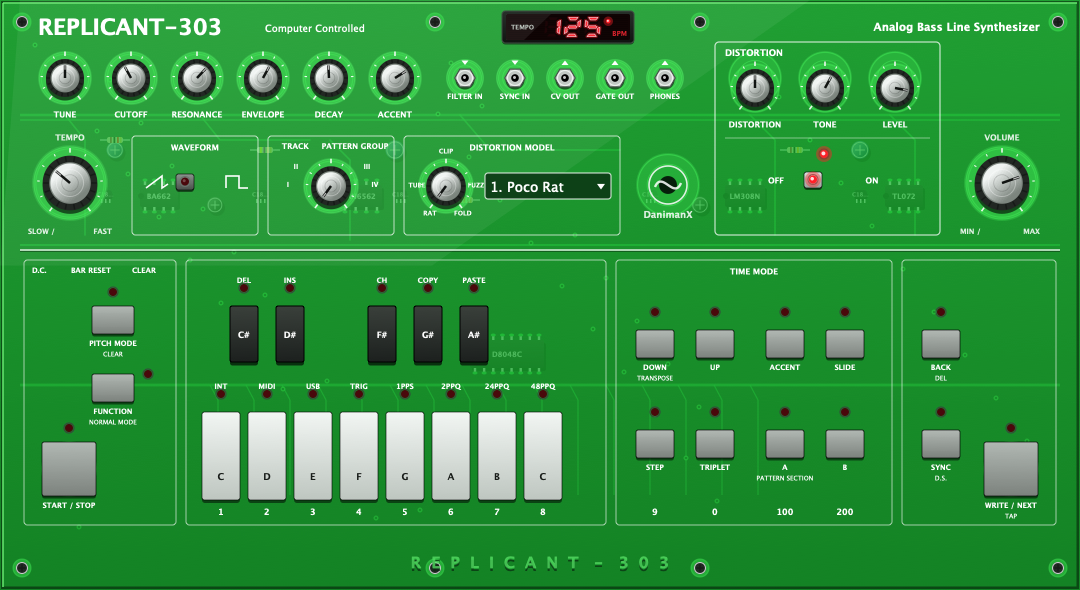
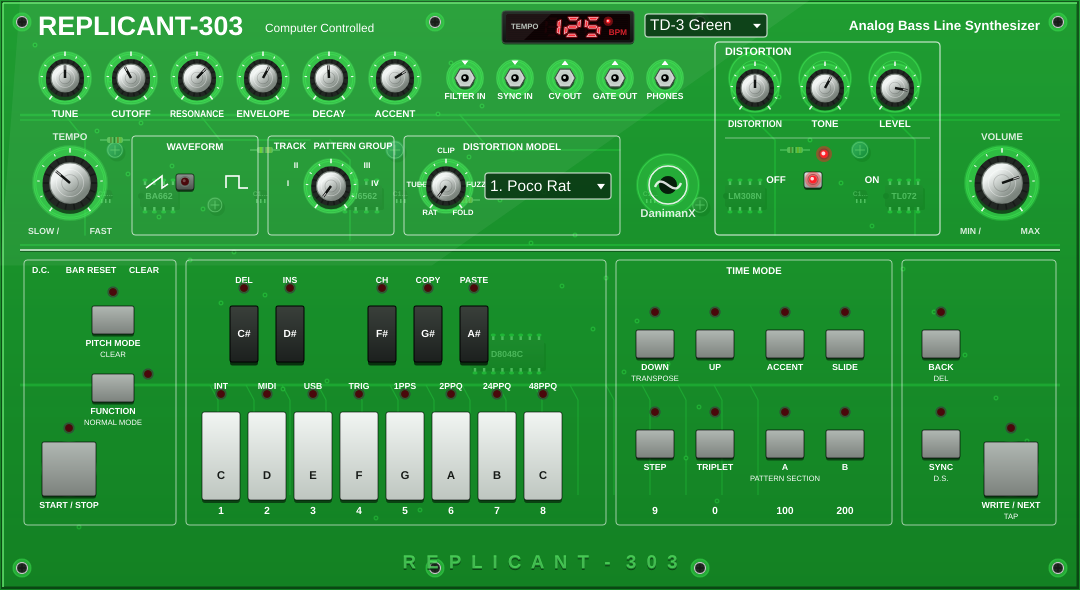
docs(assets): regenerate panel screenshots and show both skins
The committed screenshots still showed the pre-theme panel with the old
typography, and the preview was a duplicate of the single render.

- assets/replicant303_ui.png: TD-3 Green, re-rendered at the new typography.
- assets/replicant303_ui_obsidian_red.png: the new Obsidian Red skin.
- assets/replicant303_ui_preview.png: hero image stacking both skins, each
  showing its own selector in the header so the two are identifiable.

Both renders come from generate_snapshot with the skin switched live through
the public ui_theme parameter, so the images double as evidence that runtime
switching works. Images are stripped and losslessly recompressed with optipng
(0 differing pixels against the raw renders).

README
- Headline and overview no longer describe the panel as a single fixed
  translucent-green skin; both skins are named.
- Add a short section on regenerating the screenshots, since the tool now takes
  an output path and a skin index.

diff --git a/README.md b/README.md
@@ -1,21 +1,28 @@
 # REPLICANT 303 // Virtual Analog TB-303 Synthesizer
 
 <p align="center">
-  <strong>Virtual Analog TB-303 Emulation with Behringer TD-3 Translucent Green Skin & Multi-Distortion Engine</strong><br>
+  <strong>Virtual Analog TB-303 Emulation with Translucent Green &amp; Obsidian Red Panel Skins and a Multi-Distortion Engine</strong><br>
   <em>Audio Plugin: VST3 • AU • Standalone for macOS, Windows, and Linux</em>
 </p>
 
 <p align="center">
-  <img src="assets/replicant303_ui_preview.png" alt="Replicant 303 UI - Behringer TD-3 Translucent Green Skin with 80s Digital LED Tempo Clock" width="950">
+  <img src="assets/replicant303_ui_preview.png" alt="Replicant 303 UI in both skins: Behringer TD-3 Translucent Green and Obsidian Red, each with an 80s red digital LED tempo clock and a skin selector in the header" width="950">
+</p>
+
+<p align="center">
+  <em>Both ship in the plugin — pick a skin from the selector in the header.</em>
 </p>
 
 ---
 
 ## 🎛 Overview
 
-**Replicant303** is an authentic virtual analog emulation of the iconic **Roland TB-303**, featuring a procedural 3D interface inspired by the **Behringer TD-3 Translucent Green** edition.
+**Replicant303** is an authentic virtual analog emulation of the iconic **Roland TB-303**, featuring a procedural 3D interface whose tactile hardware — PCB underlay, translucent acrylic chassis, metal knobs, tactile keys and 80s LED clock — is drawn entirely in code.
 
-The panel ships with two selectable skins - the original **TD-3 Green** and **Obsidian Red** (black acrylic with red silkscreen) - chosen from the selector in the header and saved with the plugin state.
+The panel ships with two selectable skins, chosen from the selector in the header and saved with the plugin state:
+
+* **TD-3 Green** — inspired by the **Behringer TD-3 Translucent Green** edition.
+* **Obsidian Red** — black acrylic panel with red silkscreen lettering, copper traces and knob pointers.
 
 It combines circuit-accurate synthesis (4-pole diode ladder filter, interactive dual envelopes, capacitor-modeled slide, and squelch accent) with an integrated **5-model distortion unit** led by the legendary **ProCo Rat ("Poco Rat")** pedal.
 
@@ -23,10 +30,10 @@ It combines circuit-accurate synthesis (4-pole diode ladder filter, interactive 
 
 ## ✨ Key Features
 
-### 🎨 3D Translucent Green Interface
+### 🎨 Procedural 3D Interface with Selectable Skins
 * **Selectable Skins:** every colour of the panel (acrylic chassis, PCB underlay, silkscreen print, LEDs, 7-segment display, knob metal and tactile keys) comes from a theme table, so new skins are data rather than code. `TD-3 Green` and `Obsidian Red` ship today, selectable from the header and persisted in the plugin state.
 * **Procedural 3D PCB Underlay:** Visible circuit board with BA662 VCA, LM308N Op-Amp, AN6562 filter buffer, D8048C CPU, electrolytic capacitors, resistors, and copper traces.
-* **Translucent Emerald Acrylic:** Mold standoff bosses under every knob and jack, beveled 3D borders, and embossed `REPLICANT - 303` bottom lip.
+* **Translucent Acrylic:** Mold standoff bosses under every knob and jack, beveled 3D borders, and embossed `REPLICANT - 303` bottom lip.
 * **80s Digital LED Tempo Display:** Vintage red 7-segment clock display on deep black recessed acrylic, updating BPM in real time.
 * **11 Spun-Aluminum Knobs:** Conical brushed metallic caps, fluted dark skirts, and radial tick markings.
 * **13-Key Tactile Keyboard:** Playable via mouse or MIDI, with 13 individual real-time red LEDs.
@@ -80,6 +87,18 @@ cmake -B build -G Ninja -DCMAKE_BUILD_TYPE=Release
 
 # 3. Build VST3, AU, and Standalone
 ninja -C build
+```
+
+### Refreshing the panel screenshots
+
+`generate_snapshot` renders the editor off-screen to a PNG, so the README previews can be
+regenerated without opening a DAW. It takes an output path and an optional skin index, and
+switches the skin live through the public `ui_theme` parameter before rendering:
+
+```bash
+ninja -C build generate_snapshot
+generate_snapshot assets/replicant303_ui.png 0                          # TD-3 Green
+generate_snapshot assets/replicant303_ui_obsidian_red.png 1             # Obsidian Red
 ```
 
 ---
